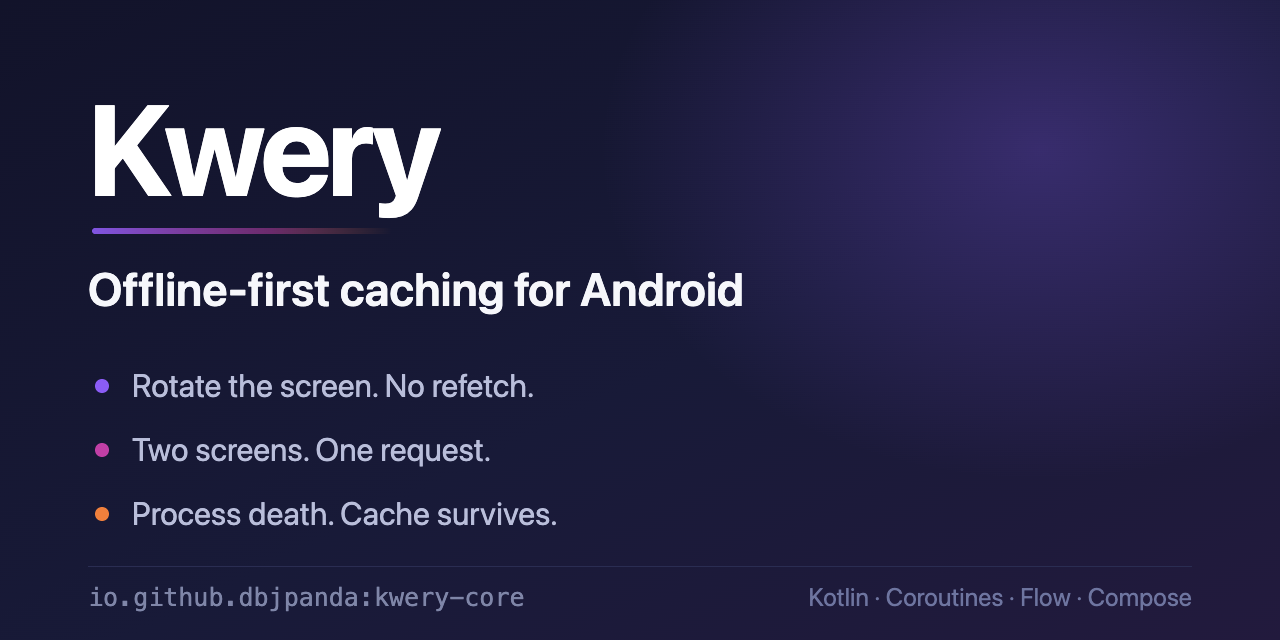
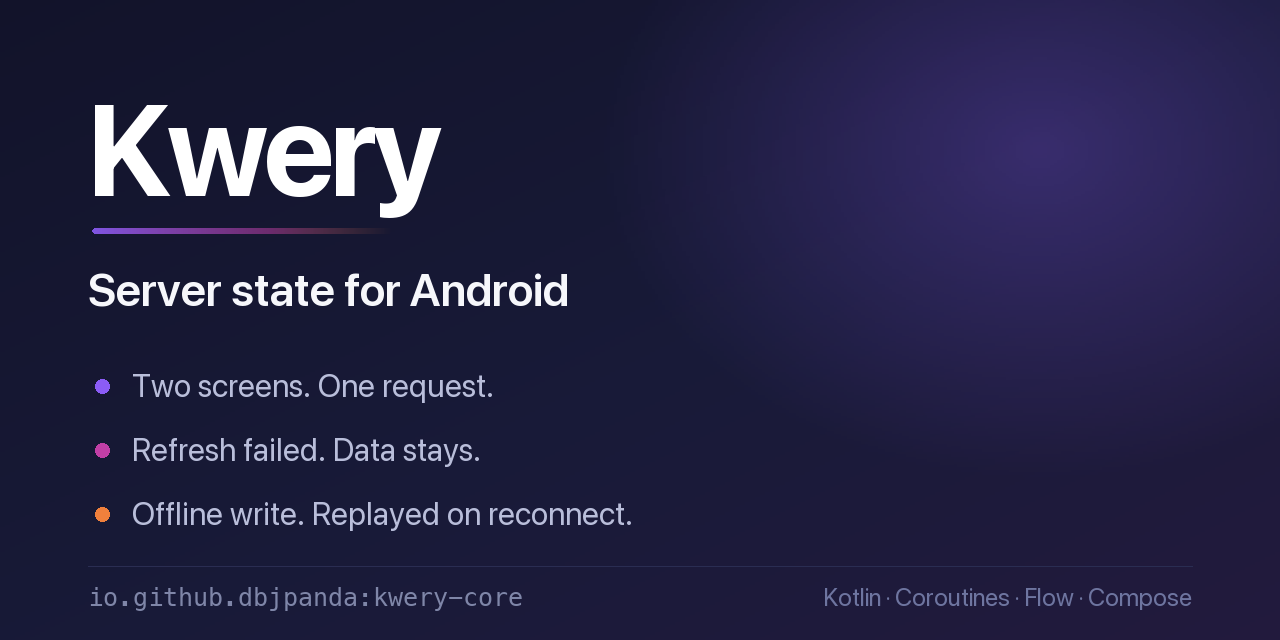
docs: regenerate the social card, and make it reproducible
The SVG was repositioned to "server state" but the PNG was not, because
no machine here has an SVG rasteriser. The PNG is the file GitHub serves
as the link-preview card, so the two drifting apart is the failure that
actually reaches readers.

scripts/social-preview.py renders the PNG with Pillow from the same
geometry and colours as the SVG. Run it whenever the SVG text changes.

Also fixes the SVG <title> and aria-label, which still said
"offline-first caching" after the visible text had been changed.

Note: this updates the file in the repo. GitHub's card is a separate
image uploaded through repo Settings and still has to be replaced there
by hand.

diff --git a/scripts/social-preview.py b/scripts/social-preview.py
@@ -1,0 +1,134 @@
+#!/usr/bin/env python3
+"""Render docs/assets/social-preview.png from the same design as the SVG.
+
+There is no SVG rasteriser on the machines this repo is built on, and the PNG
+is what GitHub actually serves as the link-preview card, so it drifted away
+from the SVG once. This script is the fix: run it whenever the SVG text
+changes, and the two stay in step.
+
+Geometry and colours below mirror docs/assets/social-preview.svg. Text y values
+are baselines in both, so they are used directly with PIL's 'ls' anchor.
+"""
+from PIL import Image, ImageDraw, ImageFont
+
+W, H = 1280, 640
+OUT = "docs/assets/social-preview.png"
+
+SF = "/System/Library/Fonts/SFNS.ttf"
+MONO = "/System/Library/Fonts/Menlo.ttc"
+
+TAGLINE = "Server state for Android"
+BULLETS = [
+    ("Two screens. One request.", (139, 92, 246)),
+    ("Refresh failed. Data stays.", (193, 63, 166)),
+    ("Offline write. Replayed on reconnect.", (240, 128, 60)),
+]
+COORD = "io.github.dbjpanda:kwery-core"
+STACK = "Kotlin · Coroutines · Flow · Compose"
+
+
+def sf(size, weight="Regular"):
+    f = ImageFont.truetype(SF, size)
+    try:
+        f.set_variation_by_name(weight)
+    except Exception:
+        pass
+    return f
+
+
+def lerp(a, b, t):
+    return tuple(round(x + (y - x) * t) for x, y in zip(a, b))
+
+
+def ramp(stops, t):
+    """stops: [(offset, (r,g,b))] sorted by offset."""
+    for i in range(len(stops) - 1):
+        o0, c0 = stops[i]
+        o1, c1 = stops[i + 1]
+        if t <= o1:
+            span = o1 - o0
+            return lerp(c0, c1, 0.0 if span == 0 else (t - o0) / span)
+    return stops[-1][1]
+
+
+def background():
+    """Diagonal 3-stop gradient, built small and upscaled."""
+    stops = [(0.0, (18, 19, 42)), (0.55, (24, 26, 56)), (1.0, (34, 26, 61))]
+    n = 256
+    small = Image.new("RGB", (n, n))
+    px = small.load()
+    for y in range(n):
+        for x in range(n):
+            px[x, y] = ramp(stops, (x / (n - 1) + y / (n - 1)) / 2)
+    return small.resize((W, H), Image.BICUBIC)
+
+
+def glow(img):
+    """Radial purple glow, ellipse cx=1040 cy=150 rx=440 ry=330, 0.28 -> 0."""
+    n = 256
+    a = Image.new("L", (n, n), 0)
+    ap = a.load()
+    for y in range(n):
+        for x in range(n):
+            dx = (x - (n - 1) / 2) / ((n - 1) / 2)
+            dy = (y - (n - 1) / 2) / ((n - 1) / 2)
+            d = (dx * dx + dy * dy) ** 0.5
+            ap[x, y] = 0 if d >= 1 else round(255 * 0.28 * (1 - d))
+    a = a.resize((880, 660), Image.BICUBIC)
+    layer = Image.new("RGB", (880, 660), (139, 92, 246))
+    img.paste(layer, (1040 - 440, 150 - 330), a)
+
+
+def tracked(draw, xy, text, font, fill, tracking=0.0):
+    """PIL has no letter-spacing, so step per glyph."""
+    x, y = xy
+    for ch in text:
+        draw.text((x, y), ch, font=font, fill=fill, anchor="ls")
+        x += draw.textlength(ch, font=font) + tracking
+
+
+def rule(img):
+    """Horizontal 3-stop gradient bar with alpha, rect 92,228 300x6 r=3."""
+    w, h = 300, 6
+    bar = Image.new("RGBA", (w, h), (0, 0, 0, 0))
+    bp = bar.load()
+    cstops = [(0.0, (139, 92, 246)), (0.6, (193, 63, 166)), (1.0, (240, 128, 60))]
+    astops = [(0.0, (230,)), (0.6, (128,)), (1.0, (0,))]
+    for x in range(w):
+        t = x / (w - 1)
+        r, g, b = ramp(cstops, t)
+        a = ramp(astops, t)[0]
+        for y in range(h):
+            bp[x, y] = (r, g, b, a)
+    mask = Image.new("L", (w, h), 0)
+    ImageDraw.Draw(mask).rounded_rectangle([0, 0, w - 1, h - 1], radius=3, fill=255)
+    bar.putalpha(Image.composite(bar.getchannel("A"), Image.new("L", (w, h), 0), mask))
+    img.paste(bar, (92, 228), bar)
+
+
+def main():
+    img = background()
+    glow(img)
+    rule(img)
+    d = ImageDraw.Draw(img)
+
+    tracked(d, (88, 196), "Kwery", sf(128, "Bold"), (255, 255, 255), tracking=-4)
+    d.text((88, 306), TAGLINE, font=sf(46, "Semibold"), fill=(246, 247, 251), anchor="ls")
+
+    body = sf(32)
+    for i, (text, dot) in enumerate(BULLETS):
+        cy = 386 + i * 64
+        d.ellipse([102 - 7, cy - 7, 102 + 7, cy + 7], fill=dot)
+        d.text((132, cy + 11), text, font=body, fill=(185, 190, 218), anchor="ls")
+
+    d.rectangle([88, 566, 88 + 1104, 566], fill=(42, 45, 82))
+    d.text((88, 606), COORD, font=ImageFont.truetype(MONO, 25),
+           fill=(127, 134, 168), anchor="ls")
+    d.text((1192, 606), STACK, font=sf(25), fill=(110, 117, 160), anchor="rs")
+
+    img.save(OUT)
+    print(f"wrote {OUT} {img.size[0]}x{img.size[1]}")
+
+
+if __name__ == "__main__":
+    main()
